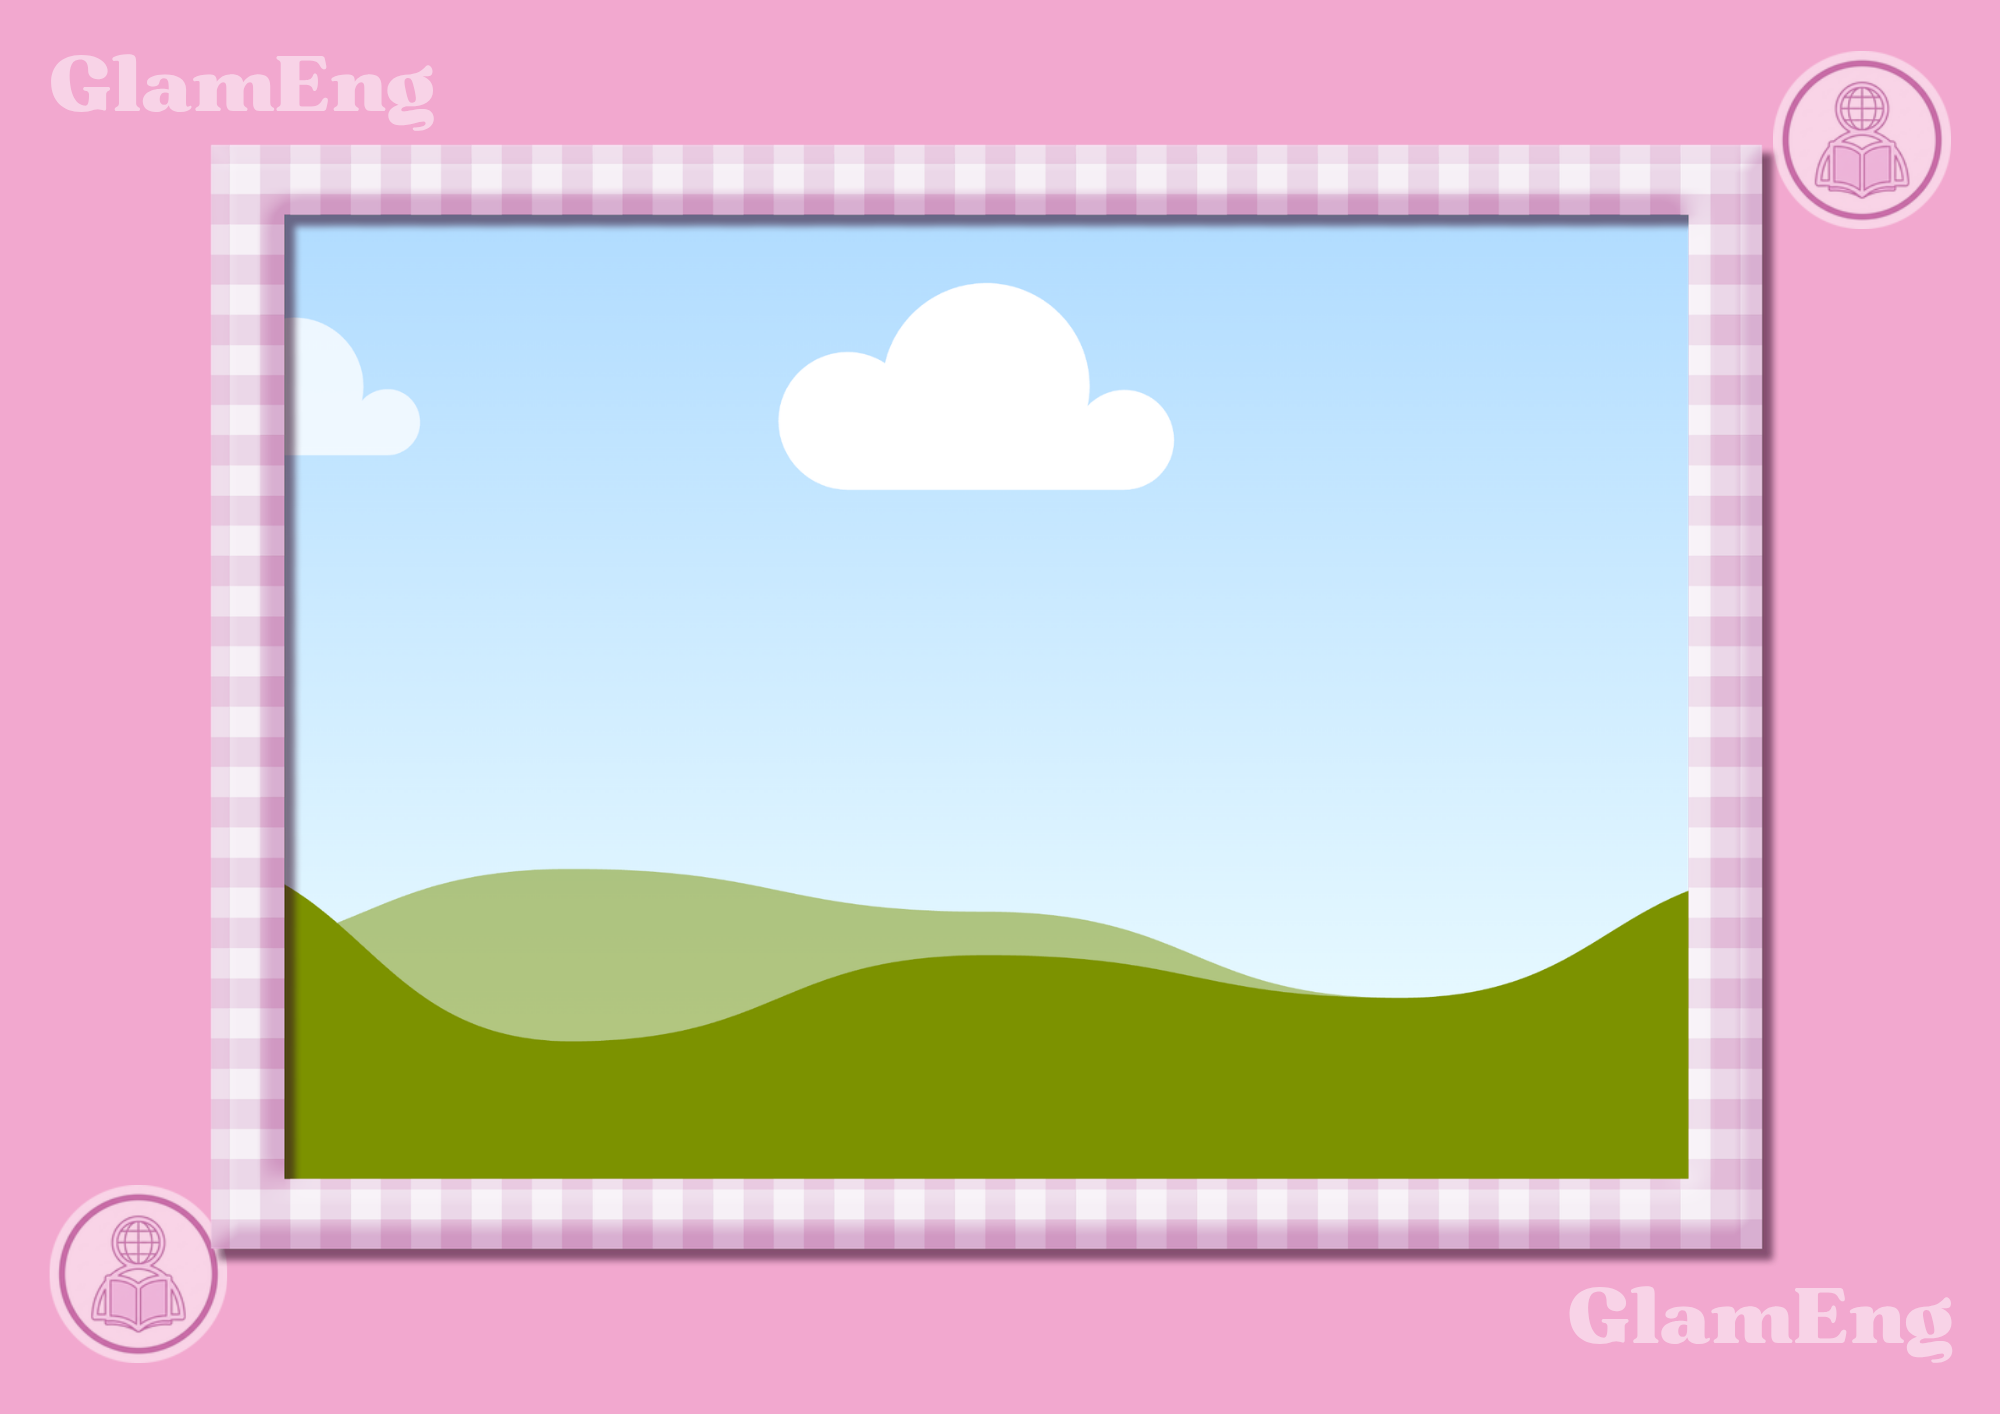
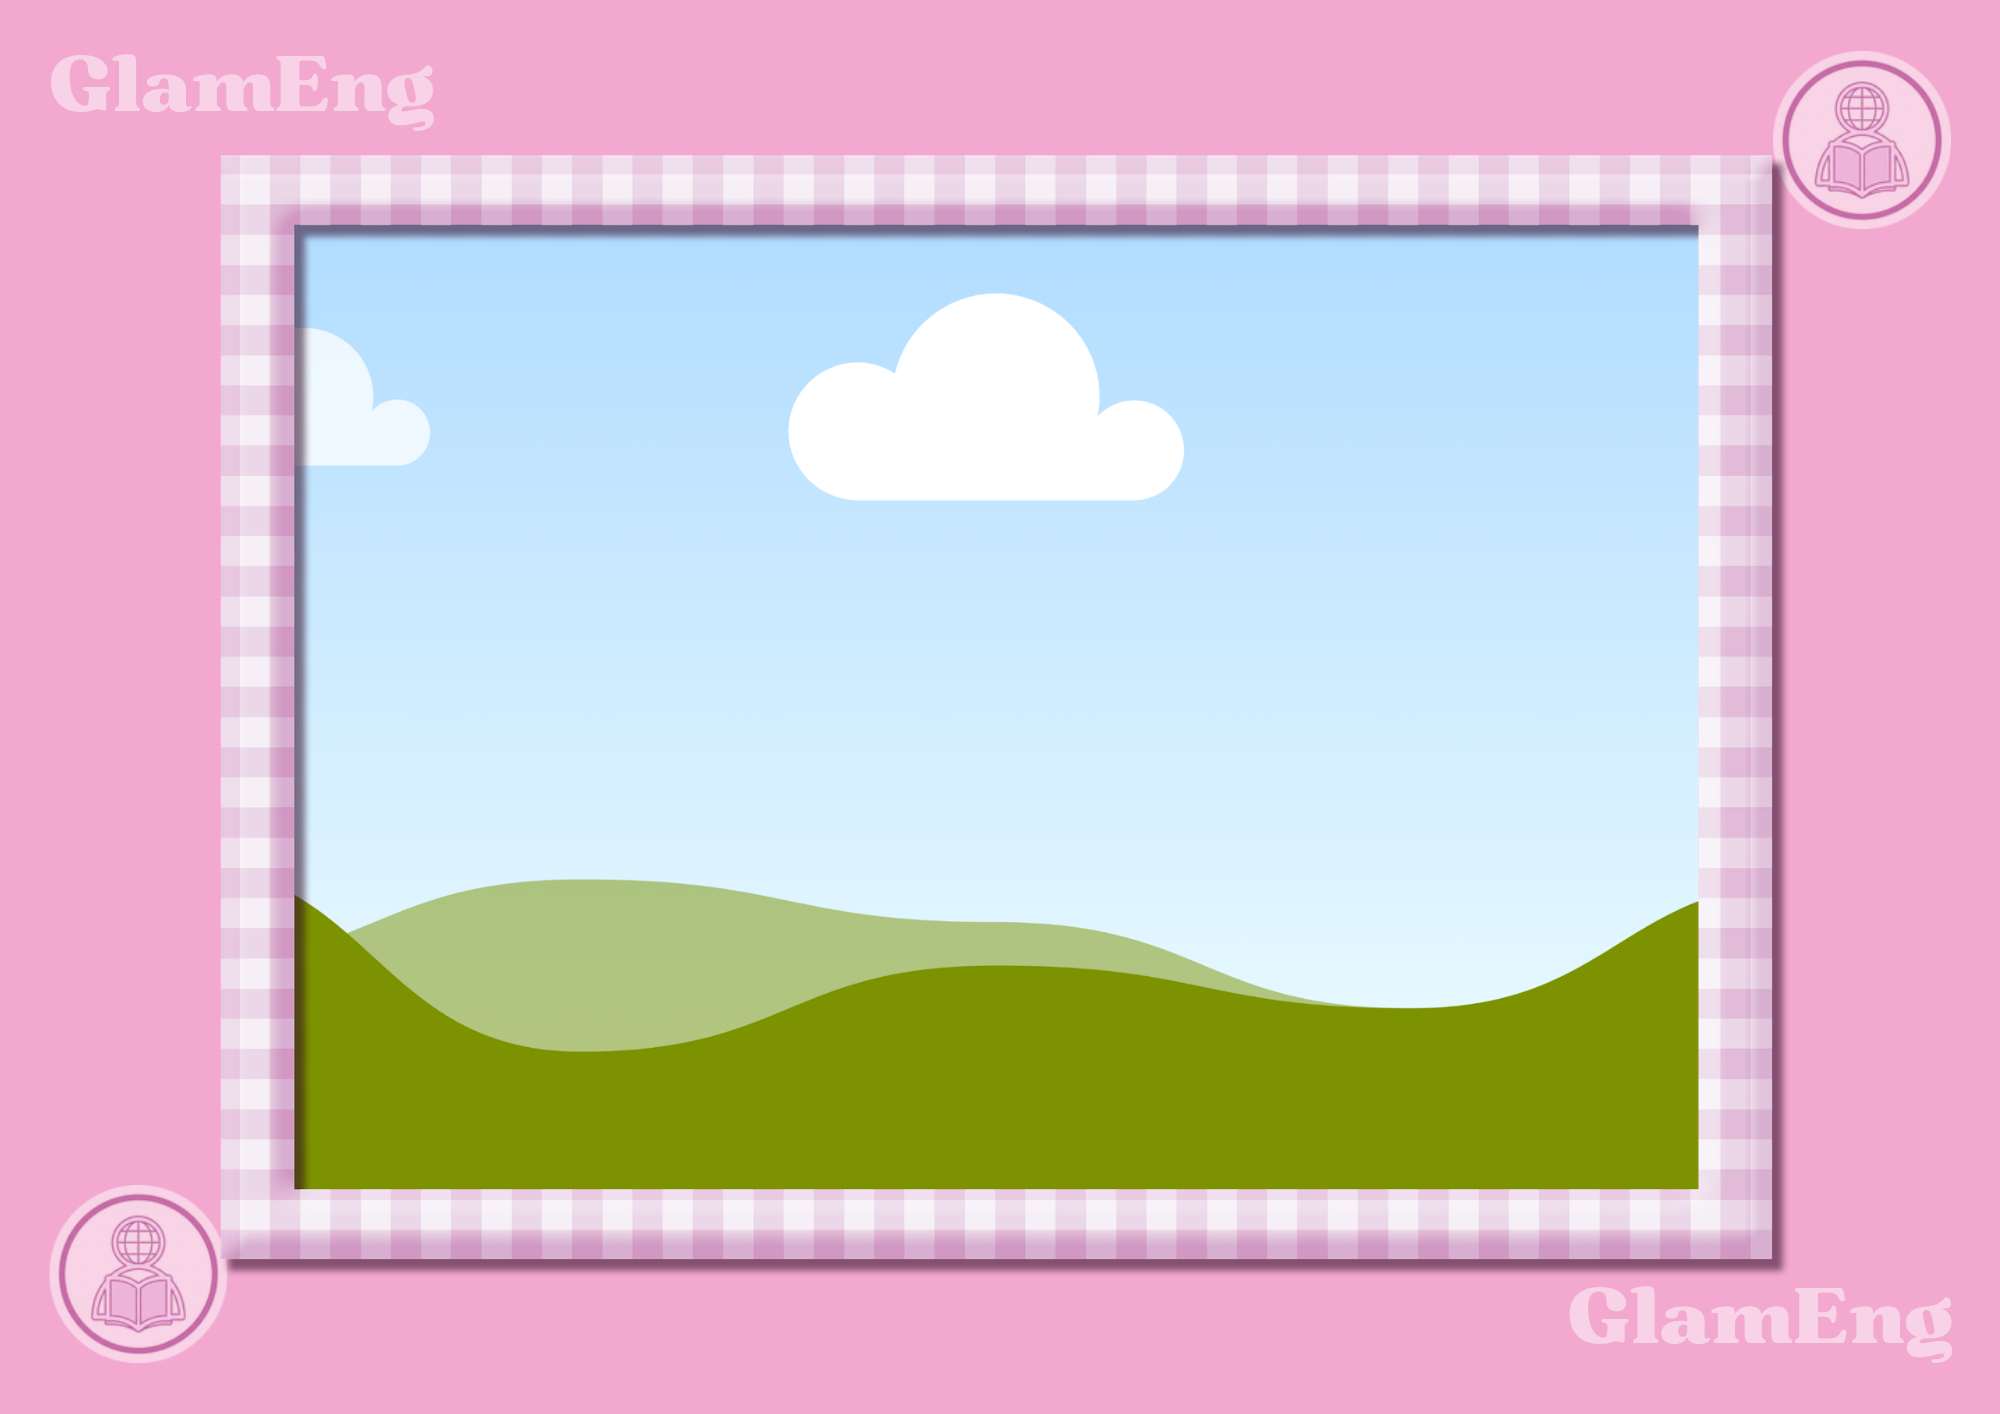
Replace frame mockup with user-tweaked version, remove baked-in shadow
The old frame.png had a subtle drop shadow painted into the mockup's
photo placeholder along its top/left edges, and the transparent cutout
window didn't extend far enough to remove it — so that shadow stayed
opaque on top of every inserted photo, reading as an unwanted left-side
inset/offset. Swapped in the user's updated frame.png and recomputed
the window rect by finding the actual border-to-content transition on
each edge (not just where the shadow itself ends), so the cut window
now covers the shadow band too and the user's photo shows edge-to-edge
with no residual shading. Bumped sw.js cache and cache-busted the
frame-data.js script tag (same immutable-cache issue as the icons).

diff --git a/app.js b/app.js
@@ -22,7 +22,7 @@
       pdfPtW: 841.89, pdfPtH: 595.28,
       fit: "cover",
       overlayOpacity: false,
-      window: { x: 291, y: 216, w: 1397, h: 961 },
+      window: { x: 294, y: 224, w: 1403, h: 964 },
     },
   };
   let activeTemplate = "document";

diff --git a/index.html b/index.html
@@ -132,7 +132,7 @@
 <script src="vendor/pdf-lib.min.js"></script>
 <script src="vendor/pdf.min.js"></script>
 <script src="assets/watermark-data.js"></script>
-<script src="assets/frame-data.js"></script>
+<script src="assets/frame-data.js?v=2"></script>
 <script src="app.js"></script>
 </body>
 </html>

diff --git a/sw.js b/sw.js
@@ -1,4 +1,4 @@
-const CACHE = "glamaterials-v8";
+const CACHE = "glamaterials-v9";
 const SHELL = [
   "./",
   "./index.html",